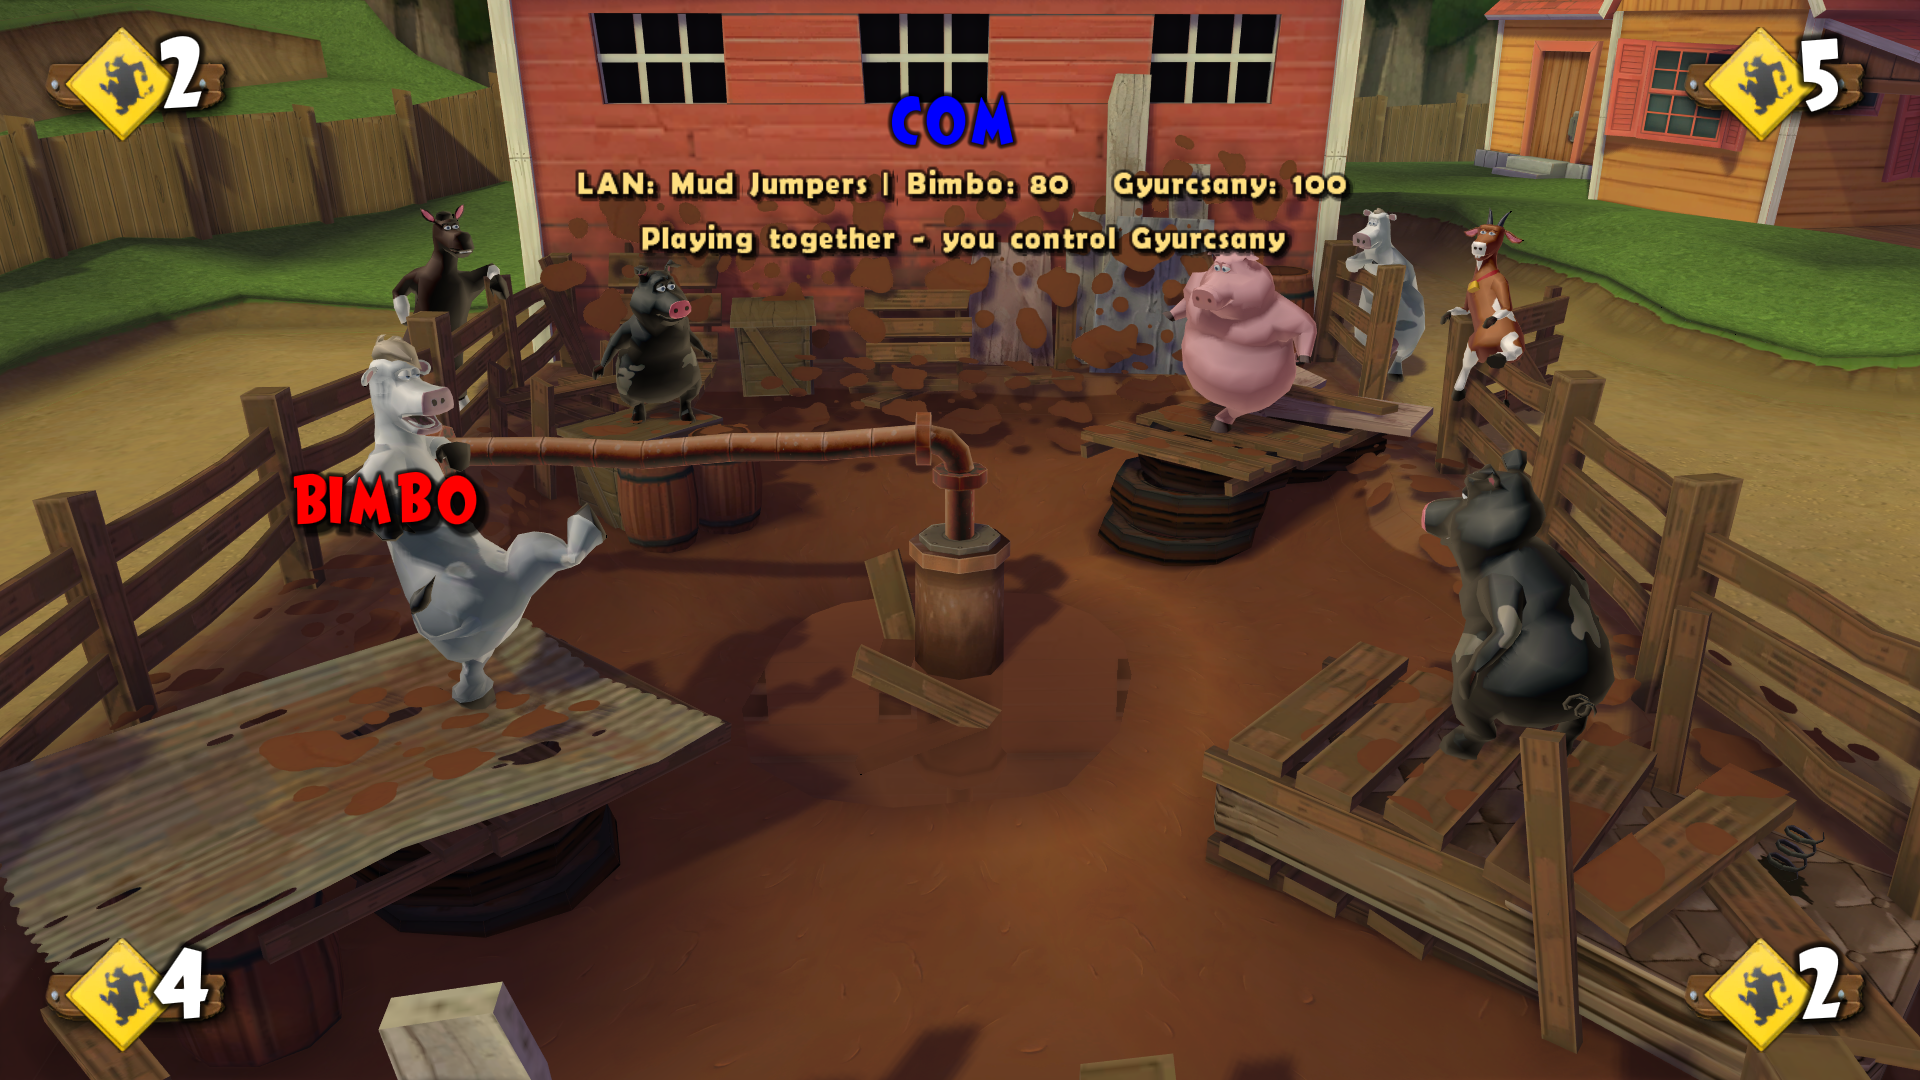
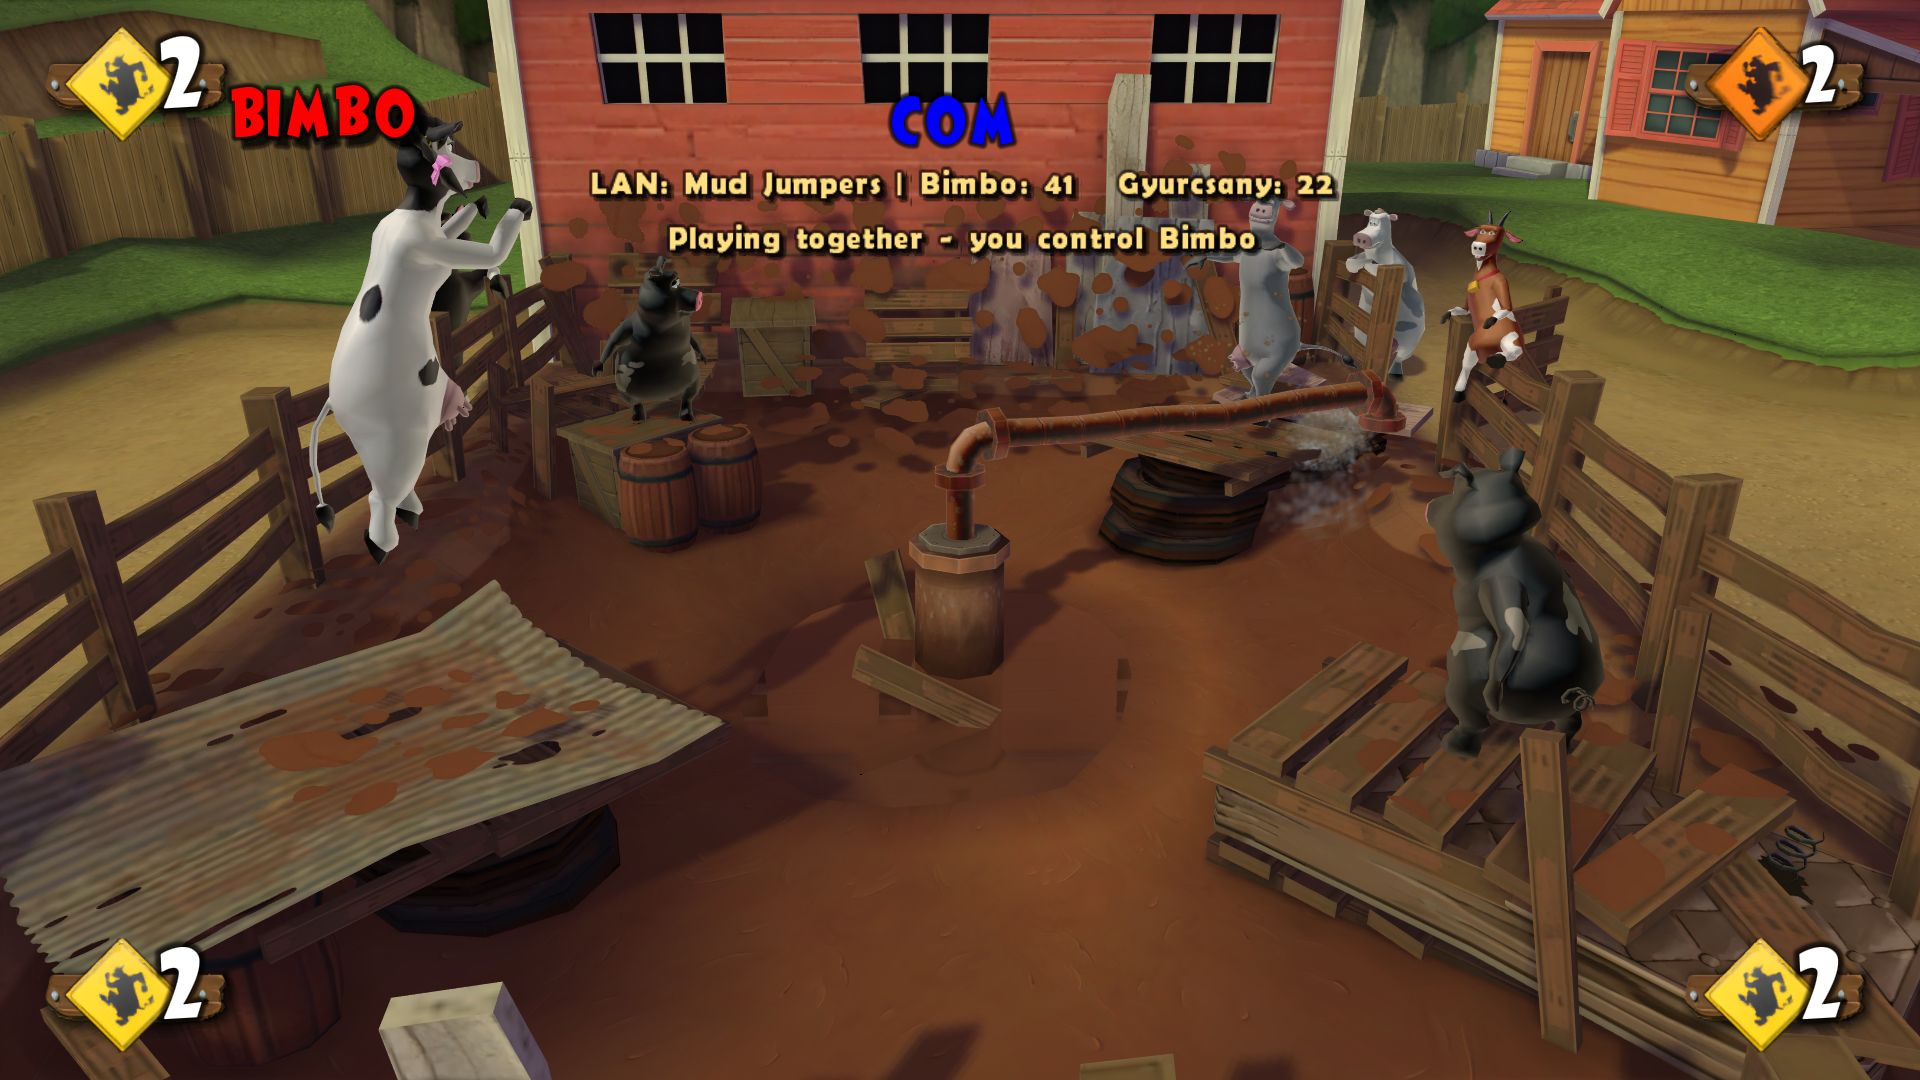
Publish v5.5-lan.6 playtest results and update three minigame screenshots

diff --git a/docs/multiplayer-testing.md b/docs/multiplayer-testing.md
@@ -1,5 +1,19 @@
 # Multiplayer playtest results
 
+## Character and scoreboard checks in v5.5-lan.6
+
+We loaded two existing save files on separate Windows DX11 game instances. Bimbo's cow was a female Holstein and Gyurcsany's was a male Angus. Both games used the English interface, optional HD textures and the maximum detail and shadow settings at 1920 × 1080. These tests ran on one Windows PC. A physical Linux host and Windows guest remain a separate test.
+
+In Mud Jumpers we compared the two screens at the same **Ready** pose, before either player pressed a button. The female Holstein kept her black-and-white coat on both screens. The male Angus had the same grey coat, pink muzzle and udder, and dark hooves. We compared four patches on that cow's head, torso, udder and hooves. All **3,660 pixels** matched exactly between host and guest. Two nearby samples from the barn and platform also matched. An earlier build still showed a flat green-purple Angus from the host's camera at this point.
+
+Both screens reported **20001–2** at the end of this match, then both players returned to their farms. All 14 measured host actions and 11 guest actions reached render submission in the same game update that dispatched the input. The longest dispatch-to-submission intervals were 0.911 ms on the host and 1.419 ms on the guest. These measurements end at the renderer, before the picture reaches the physical display.
+
+We swapped which save hosted, then tried a male Holstein and male Angus together. The two bulls shared a character model and kept their distinct coats on both screens. In that last run each instance added 150 ms of network delay, up to 35 ms of jitter and 3% packet loss. The host and guest logged 58 and 79 dropped datagrams respectively. All 24 measured local actions in that run reached render submission in their input frame. Across the three Mud Jumpers runs, **71 of 71** measured actions did so.
+
+We also played **Chasing Chicks** and **Veggie Patch Defender** through to their results. On each screen, Bimbo and Gyurcsany's names and scores were readable throughout the captured action. Both players saw **0–0** in Chasing Chicks and **160–140** in Veggie Patch Defender. Each game returned both players to their saved farms. [Full-size minigame screenshots](../README.md#minigame-gallery)
+
+All **13** Win32 Release regression tests passed, including the two new tests for cow appearance and the LAN scoreboard. The appearance test covers both player slots, all seven breeds for each sex, a late appearance update, two cows sharing a model and the original AI character slots. The scoreboard test covers the first frame of a match, returning to the farm and screens that hide the scoreboard. [Tested engine source](https://github.com/mannin1337/barnyard-remaster/commit/a14f73b659d83b825fa7ce35a050feb48640b7bd)
+
 ## LAN input timing in v5.5-lan.5
 
 The gameplay test runs a host and a guest as two muted Win32 DX11 processes on one Windows PC. Both run at idle priority in background mode, which presents frames without waiting for VSync. The test sends scripted inputs through the game's regular input mapping. Each process records when it dispatches an input, when the minigame applies the first matching action, and when the renderer reaches its next frame submission point. A difference of zero frames means all three events took place in the same game update. The measurement starts after device polling and ends before desktop composition and display scan-out. The spectator receives the other player's actions after the packets cross the link. Timing a SteamOS host and a separate Windows guest on physical hardware remains open for this release. [Record input timings on your own setup](../Tools/tests/netplay/README.md#test-coverage)
@@ -60,7 +74,7 @@ In a second full Darts match the players finished at **35–0** after three roun
 
 ### Mud Jumpers character appearance
 
-In a later gallery session, Bimbo hosted as a female Holstein and Gyurcsany joined as a male Angus. On the host, Bimbo's cow appeared solid purple. The guest showed a different cow model with a textured coat in Bimbo's place. The mismatch was visible in all three pairs of frames, taken at 37, 43 and 49 seconds. The Mud Jumpers screenshot in the gallery shows the guest's view. [Minigame gallery](../README.md#minigame-gallery)
+In a later v5.5-lan.5 gallery session, Bimbo hosted as a female Holstein and Gyurcsany joined as a male Angus. On the host, Bimbo's cow appeared solid purple. The guest showed a different cow model with a textured coat in Bimbo's place. The mismatch was visible in all three pairs of frames, taken at 37, 43 and 49 seconds. The original gallery used the guest's view. [Gallery from that session](https://github.com/mannin1337/barnyard-remaster/blob/e66b6d08d939ddac7b70d00ee07785b92ba4e526/README.md#minigame-gallery)
 
 ## Co-op names in v5.5-lan.4
 

diff --git a/README.md b/README.md
@@ -59,7 +59,7 @@ All 14 activities below are playable solo in the original PC game. For this rema
 | Play the same challenge on each computer and compare scores | **Tease the Mailman**, **Tease Mrs Beady**, **Chasing Chicks**, **Veggie Patch Defender**, **Cow Tipping**, **Milk Bar** |
 | Race on each computer and compare finish times | **Bike Race**, **Joy Ride** |
 
-When you play as the guest, you can lock both Darts aim bars, start a Pool shot or jump in Mud Jumpers while your input is still travelling to the host. The host settles shared hits and scores. [Input timing and LAN playtest results](docs/multiplayer-testing.md#lan-input-timing-in-v55-lan5)
+Both screens show each player's saved cow in Mud Jumpers, including its breed and markings. When you play as the guest, you can lock both Darts aim bars, start a Pool shot or jump in Mud Jumpers while your input is still travelling to the host. The host settles shared hits and scores. [Character and scoreboard checks](docs/multiplayer-testing.md#character-and-scoreboard-checks-in-v55-lan6) · [Input timing across all 14 games](docs/multiplayer-testing.md#lan-input-timing-in-v55-lan5)
 
 ### Minigame gallery
 
@@ -71,7 +71,7 @@ Select a screenshot to open the full 1920 × 1080 frame from Bimbo and Gyurcsany
 
 | Gopher Golf | Mud Jumpers |
 | --- | --- |
-| [![Gyurcsany watches Bimbo's gopher surface beside the golf ball.](docs/images/minigames/previews/gopher-golf.webp)](docs/images/gopher-golf.png)<br>Tee off, then steer your gopher underground to retrieve the ball. | [![Gyurcsany's view of Bimbo lifting a hoof to kick the pipe across the muddy arena.](docs/images/minigames/previews/mud-jumpers.webp)](docs/images/minigames/mud-jumpers.webp)<br>Jump the pipe or kick it back at your friend and the two computer-controlled cows. |
+| [![Gyurcsany watches Bimbo's gopher surface beside the golf ball.](docs/images/minigames/previews/gopher-golf.webp)](docs/images/gopher-golf.png)<br>Tee off, then steer your gopher underground to retrieve the ball. | [![Bimbo jumps from a wooden platform as the rotating pipe sweeps towards Gyurcsany's grey Angus cow across the mud pit.](docs/images/minigames/previews/mud-jumpers.webp)](docs/images/minigames/mud-jumpers.webp)<br>Jump the pipe or kick it back at your friend and the two computer-controlled cows. |
 
 | Darts | Barnyard Pool |
 | --- | --- |
@@ -83,7 +83,7 @@ Select a screenshot to open the full 1920 × 1080 frame from Bimbo and Gyurcsany
 
 | Chasing Chicks | Veggie Patch Defender |
 | --- | --- |
-| [![Two cows cross paths near the red barn as yellow chicks scatter along the farmyard trail.](docs/images/minigames/previews/chasing-chicks.webp)](docs/images/minigames/chasing-chicks.webp)<br>Stand in a scoring ring and toss a chick back into the coop. | [![A cow fires a jet of milk between vegetable rows beside a pumpkin-headed scarecrow.](docs/images/minigames/previews/vegetable-patch-defender.webp)](docs/images/minigames/vegetable-patch-defender.webp)<br>Squirt the raiding raccoons and throw them out before they steal the vegetables. |
+| [![A yellow chick flies up in front of Gyurcsany as feathers scatter beside a watching hen.](docs/images/minigames/previews/chasing-chicks.webp)](docs/images/minigames/chasing-chicks.webp)<br>Stand in a scoring ring and toss a chick back into the coop. | [![Bimbo runs out of milk as a raccoon dashes between the vegetable rows beside a pumpkin-headed scarecrow.](docs/images/minigames/previews/vegetable-patch-defender.webp)](docs/images/minigames/vegetable-patch-defender.webp)<br>Squirt the raiding raccoons and throw them out before they steal the vegetables. |
 
 | Bike Race | Joy Ride |
 | --- | --- |

diff --git a/docs/releases/v5.5-lan.6.md b/docs/releases/v5.5-lan.6.md
@@ -1,0 +1,19 @@
+# Barnyard Remaster v5.5-lan.6 – Saved cows and clearer LAN scoreboards
+
+[**Download for Windows and Linux (Proton)**](https://github.com/mannin1337/barnyard-remaster/releases/download/v5.5-lan.6/Barnyard_Remaster_v5.5_PC_Patch.zip) · [Install the patch and transfer your saves](https://github.com/mannin1337/barnyard-remaster/blob/v5.5-lan.6/RemasterTools/Patch/INSTALL.md#carry-over-a-previous-v55-installation)
+
+Install the update on both computers. Each player needs the original Barnyard PC game.
+
+- **Mud Jumpers.** Each cow brings its saved appearance into the arena. Both screens show the same breed, markings and lighting, whichever computer hosts. We also fixed a DirectX 11 skin shader issue that could make a textured cow appear flat green and purple on one screen.
+- **LAN scoreboards.** Both players' names and scores are readable in Chasing Chicks and Veggie Patch Defender. The farm's partner status yields its spot while the match scoreboard is on screen and can appear again when you return.
+
+[![Bimbo jumps the pipe while Gyurcsany stands across the Mud Jumpers arena.](https://raw.githubusercontent.com/mannin1337/barnyard-remaster/v5.5-lan.6/docs/images/minigames/previews/mud-jumpers.webp)](https://github.com/mannin1337/barnyard-remaster/blob/v5.5-lan.6/docs/images/minigames/mud-jumpers.webp)
+
+We compared the same starting frame from two Windows game instances running on one PC. All 3,660 sampled pixels on the Angus cow's head, torso, udder and hooves matched. Both scoreboards agreed when the match ended, and both players returned to the farm. [Multiplayer test results](https://github.com/mannin1337/barnyard-remaster/blob/v5.5-lan.6/docs/multiplayer-testing.md#character-and-scoreboard-checks-in-v55-lan6)
+
+The gallery shows all 14 activities that you could play solo in the original PC game and that we adapted for two-player LAN. Select a picture to open the full 1920 × 1080 frame. [Browse the minigames](https://github.com/mannin1337/barnyard-remaster/blob/v5.5-lan.6/README.md#minigame-gallery)
+
+| File | SHA-256 |
+| --- | --- |
[2 lines of base64/hex data omitted]
